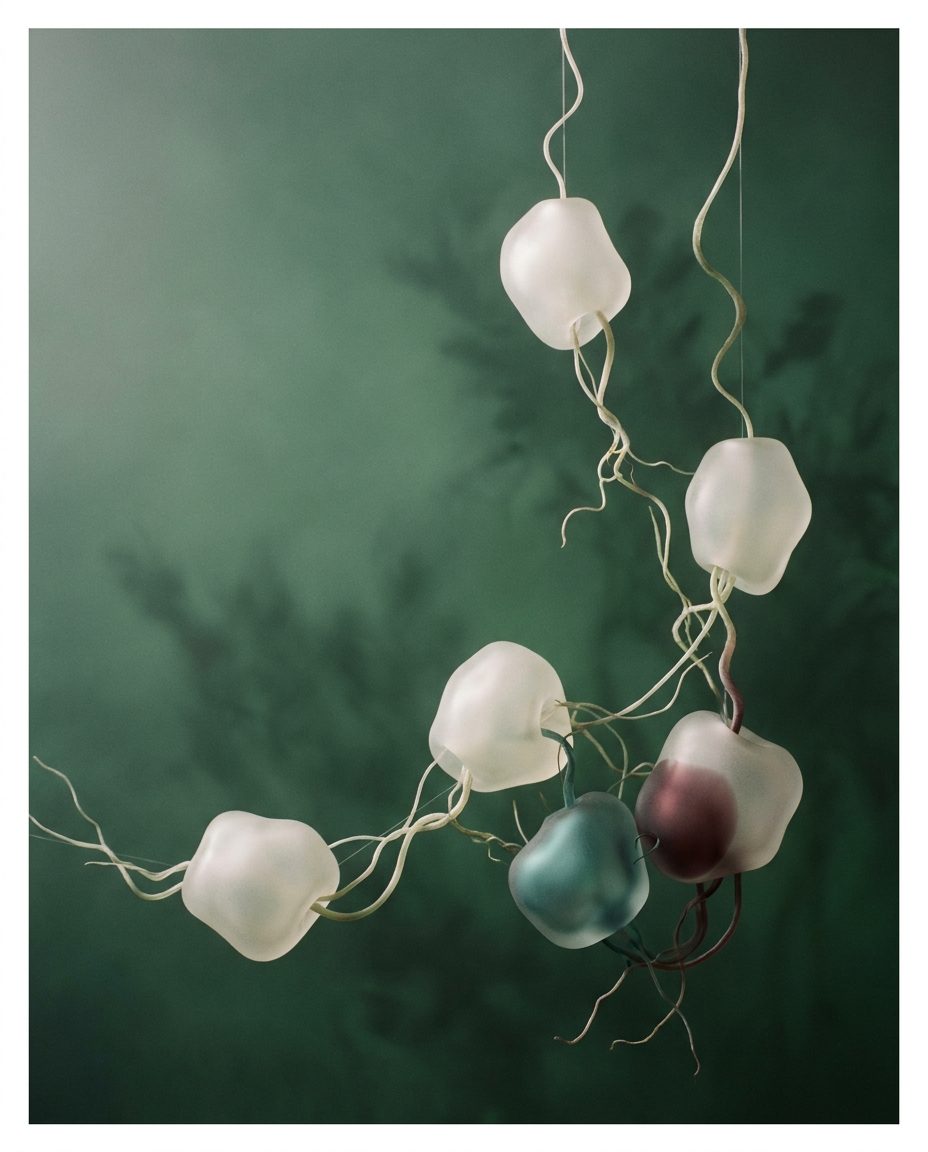
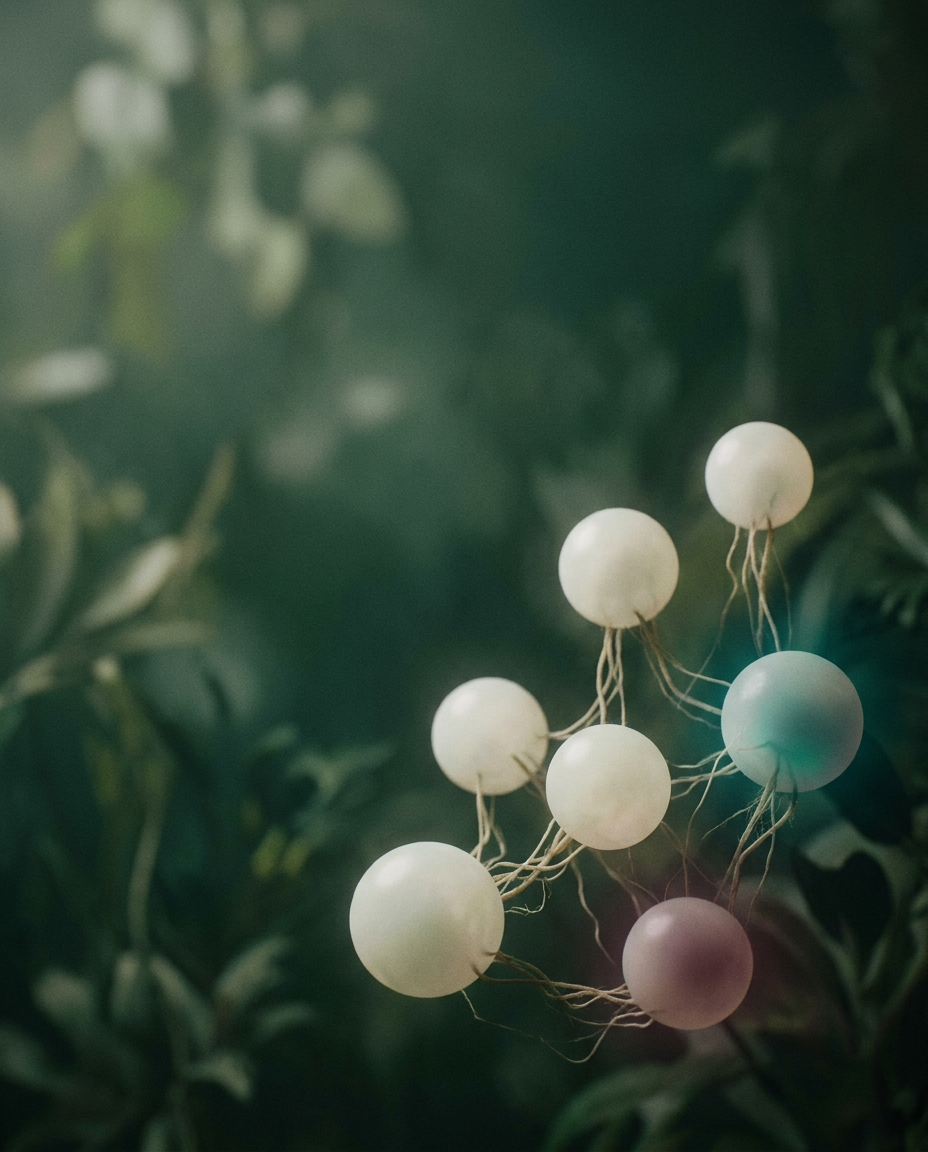
content: refine case-study copy + regenerate covers
Expands each of the three case studies to match the brand voice and
the new long-term vision (studio as Obsidian replacement). Copy now
carries concrete facts instead of placeholder abstractions; bodies
are 2–3 paragraphs and land on a clear "what this grows into" line
where relevant.

OIKBAS
  - Names the three layers (orchestration / refinement / harvest)
  - States the 2026 north star: closing the public ↔ studio loop in a
    single repo, replacing Obsidian
  - Facts now include stack, repo count, running state
  - GitHub link surfaced

VFX Research Pipeline
  - Articulates the three concrete mechanics (graph nodes, determinism,
    review surface) rather than one generic sentence
  - Adds CUDA + model class to the facts

minhanr.dev
  - Explicitly frames this site as "the public face" + "editor-to-be"
  - Mentions the zero-deps force-directed graph
  - Adds repository link

Covers regenerated via Nano Banana Pro (gemini-3-pro-image-preview)
against the same 2026-palette prompts. All three landed on first pass,
668 / 673 / 688 KB.

diff --git a/src/lib/work.ts b/src/lib/work.ts
@@ -50,20 +50,30 @@ const WORK: WorkItem[] = [
   {
     slug: "oikbas-ecosystem",
     title: "OIKBAS",
-    discipline: "지식 자동화",
+    discipline: "지식 자동화 · R&D",
     subject: "스스로 정원을 가꾸는 AI 시스템",
     year: "2026",
-    role: "아키텍트·엔지니어",
+    role: "아키텍트 · 엔지니어 · 유일한 사용자",
     summary:
-      "수집·수렴·확산 세 축 위에서 일곱 개의 에이전트가 살아 있는 지식 베이스를 유지하는 시스템.",
-    body: `시스템으로 구축한 스튜디오의 일상. 수집(Acquisition)·수렴(Convergence)·확산(Amplification) 세 축 위에서 일곱 개의 자율 에이전트가 장기간 운영되는 지식 베이스를 정직하고 최신 상태로, 그리고 언제든 공개 가능한 상태로 유지한다. 지금 보고 계신 공개 페이지는 그 시스템의 얇은 투영 한 장이며, 나머지 대부분은 뒤에서 돈다.`,
+      "수집·수렴·확산 세 축 위에서 일곱 개의 자율 에이전트가 한 명의 실무자를 위해 지식 베이스를 유지·갱신·발행하는 시스템.",
+    body: `시스템으로 구축한 스튜디오의 일상. 수집(Acquisition)·수렴(Convergence)·확산(Amplification) 세 축 위에서 일곱 개의 자율 에이전트가 장기간 운영되는 지식 베이스를 정직하고 최신 상태로, 그리고 언제든 공개 가능한 상태로 유지한다. 지금 보고 계신 공개 페이지는 그 시스템의 얇은 투영 한 장이며, 나머지 대부분은 뒤에서 돈다.
+
+Layer 1(오케스트레이션)이 하루의 큰 흐름을 잡고, Layer 2(수렴)가 수집된 재료를 묶어 태그·요약·연결을 붙이고, Layer 3(수집)가 논문·뉴스·레포지토리·회의록을 실시간으로 가져온다. 볼트의 모든 변경은 GitHub commit으로 기록되고, 공개 가능한 노트는 빌드 파이프라인을 타고 이 사이트 위에 내려앉는다.
+
+장기 비전은 Obsidian을 대체해 이 시스템을 본 사이트에서 직접 입출력하는 것. "공개 페이지"와 그 뒤의 "스튜디오"를 같은 리포 안에서 하나의 루프로 닫는 작업이 2026년의 북극성이다.`,
     facts: [
-      { label: "에이전트", value: "7" },
+      { label: "에이전트", value: "7 · Layer 1·2·3" },
       { label: "축", value: "수집 · 수렴 · 확산" },
-      { label: "언어", value: "TypeScript · Python" },
-      { label: "가동", value: "2026" },
+      { label: "스택", value: "TypeScript · Python · Supabase · GitHub Actions" },
+      { label: "저장소", value: "5개 리포 + 볼트" },
+      { label: "가동", value: "2026 · 운영 중" },
     ],
-    coverAlt: "OIKBAS 7-에이전트 시스템의 추상적 다이어그램",
+    link: {
+      label: "GitHub",
+      href: "https://github.com/Minhan-Bae",
+    },
+    coverAlt:
+      "OIKBAS 시스템의 추상적 다이어그램 — 수집·수렴·확산 세 축 위의 일곱 노드",
     selected: true,
     order: 1,
   },
@@ -73,16 +83,21 @@ const WORK: WorkItem[] = [
     discipline: "VFX 연구·개발",
     subject: "생성형 렌더링을 위한 프로덕션 도구",
     year: "2025",
-    role: "리드 엔지니어",
+    role: "리드 엔지니어 · 파이프라인 TD",
     summary:
-      "아티스트가 생성형 모델을 기존 컴포지팅 그래프 감각 그대로 반복 작업할 수 있게 해 주는 스튜디오급 파이프라인.",
-    body: `연구를 스튜디오에 얹는 건 결국 호환성 문제다. 이 프로젝트는 latent-space 모델을 DCC 노드로 감싸고, 결정적 시드 기반 캐싱 레이어를 추가했고, 리뷰 라운드를 "드라이브 링크 보내 주세요"에서 버전 이력이 살아 있는 일급 리뷰 서페이스로 바꿨다.`,
+      "아티스트가 생성형 모델을 기존 컴포지팅 그래프 감각 그대로 반복할 수 있게 하는 스튜디오급 파이프라인. 리뷰 라운드를 '드라이브 링크'에서 버전 이력이 있는 일급 서페이스로 옮겼다.",
+    body: `연구를 스튜디오에 얹는 건 결국 호환성 문제다. 이 프로젝트는 latent-space 모델을 DCC(디지털 콘텐츠 제작 툴) 노드로 감싸고, 결정적 시드 기반 캐싱 레이어를 추가했고, 리뷰 라운드를 "드라이브 링크 보내 주세요"에서 버전 이력이 살아 있는 일급 리뷰 서페이스로 바꿨다.
+
+핵심은 세 가지. 첫째, 생성형 모델을 블랙박스로 두지 않고 노드 그래프의 한 셀로 격하한다 — 다른 패스와 똑같이 cache·retime·branch 된다. 둘째, seed + parameter hash가 같으면 결과도 같다는 결정성 보장. 셋째, 매 렌더 라운드가 리뷰 링크 하나로 정리되어 감독이 프레임 단위로 코멘트를 남길 수 있다.
+
+결과적으로 "보여드릴게요"라는 말이 회의실이 아니라 브라우저에서 완성된다.`,
     facts: [
-      { label: "플랫폼", value: "Nuke · Houdini · Python" },
+      { label: "플랫폼", value: "Nuke · Houdini · Python · CUDA" },
+      { label: "모델", value: "diffusion · optical flow · neural radiance" },
       { label: "도입", value: "스튜디오 전사" },
-      { label: "상태", value: "운영 중" },
+      { label: "상태", value: "운영 중 · 확장 중" },
     ],
-    coverAlt: "생성형 VFX 샷 스틸 — 볼류메트릭 빛 속의 인물",
+    coverAlt: "생성형 VFX 샷 스틸 — 볼류메트릭 빛 속의 실루엣",
     selected: true,
     order: 2,
   },
@@ -92,15 +107,24 @@ const WORK: WorkItem[] = [
     discipline: "에디토리얼 시스템",
     subject: "지금 보고 있는 이 사이트",
     year: "2026",
-    role: "디자이너·엔지니어",
+    role: "디자이너 · 엔지니어",
     summary:
-      "작업을 유지해 주는 같은 에이전트 시스템 위에 지은 조용한 매거진 형식의 포트폴리오.",
-    body: `조용한 매거진으로 설계했다. 세리프 디스플레이 하나, 산세리프 하나, 그리고 2026 팔레트 — Phthalo Green 바탕, Cloud Dancer 텍스트, Transformative Teal 키라인, Divine Damson 악센트. 콘텐츠 모델은 의도적으로 단조롭다. 모든 조각은 손으로 집어 버전 관리에 올린다 — 공개 페이지에 라이브 데이터베이스는 붙지 않는다.`,
+      "OIKBAS의 공개 얼굴이자, 앞으로 Obsidian을 대체할 지식 입출력 UI의 빌드업. 조용한 매거진 형식의 포트폴리오에서 출발한다.",
+    body: `조용한 매거진으로 설계했다. 세리프 디스플레이 하나, 산세리프 하나, 그리고 2026 팔레트 — Phthalo Green 바탕, Cloud Dancer 텍스트, Transformative Teal 키라인, Divine Damson 악센트. 콘텐츠 모델은 의도적으로 단조롭다. 모든 조각은 손으로 집어 버전 관리에 올린다 — 공개 페이지에 라이브 데이터베이스는 붙지 않는다.
+
+지금은 포트폴리오처럼 읽히지만, 목적지는 다르다. 이 사이트는 공개(작업·글·소개)와 그 뒤의 스튜디오(노트 입출력·발행·검토)를 한 리포 안에서 닫는 루프가 된다. 헤더 우측의 "스튜디오"가 그 입구이고, 내부 편집기·그래프·대시보드가 이어지는 단계다.
+
+기술 스택은 Next.js 16 + React 19. 힘 기반 노트 그래프는 순수 SVG + rAF로 구현해 외부 의존성 없이 60fps를 유지한다. 텍스트는 Pretendard Variable(한글)과 Instrument Serif(영문)의 글리프 폴백 조합. 토큰은 OKLCH로 관리되어 다크·라이트·그레이 세 테마에서 동일한 규칙을 따른다.`,
     facts: [
       { label: "스택", value: "Next.js 16 · React 19 · OKLCH 토큰" },
-      { label: "호스팅", value: "Vercel Edge" },
-      { label: "타입", value: "Instrument Serif · Noto Serif KR · Geist" },
+      { label: "호스팅", value: "Vercel Edge · Turbopack" },
+      { label: "타입", value: "Instrument Serif · Pretendard Variable · Geist" },
+      { label: "그래프", value: "Force-directed SVG · 외부 의존성 0" },
     ],
+    link: {
+      label: "레포지토리",
+      href: "https://github.com/Minhan-Bae/minhanr-dev",
+    },
     coverAlt: "minhanr.dev 에디토리얼 그리드 목업",
     selected: true,
     order: 3,
